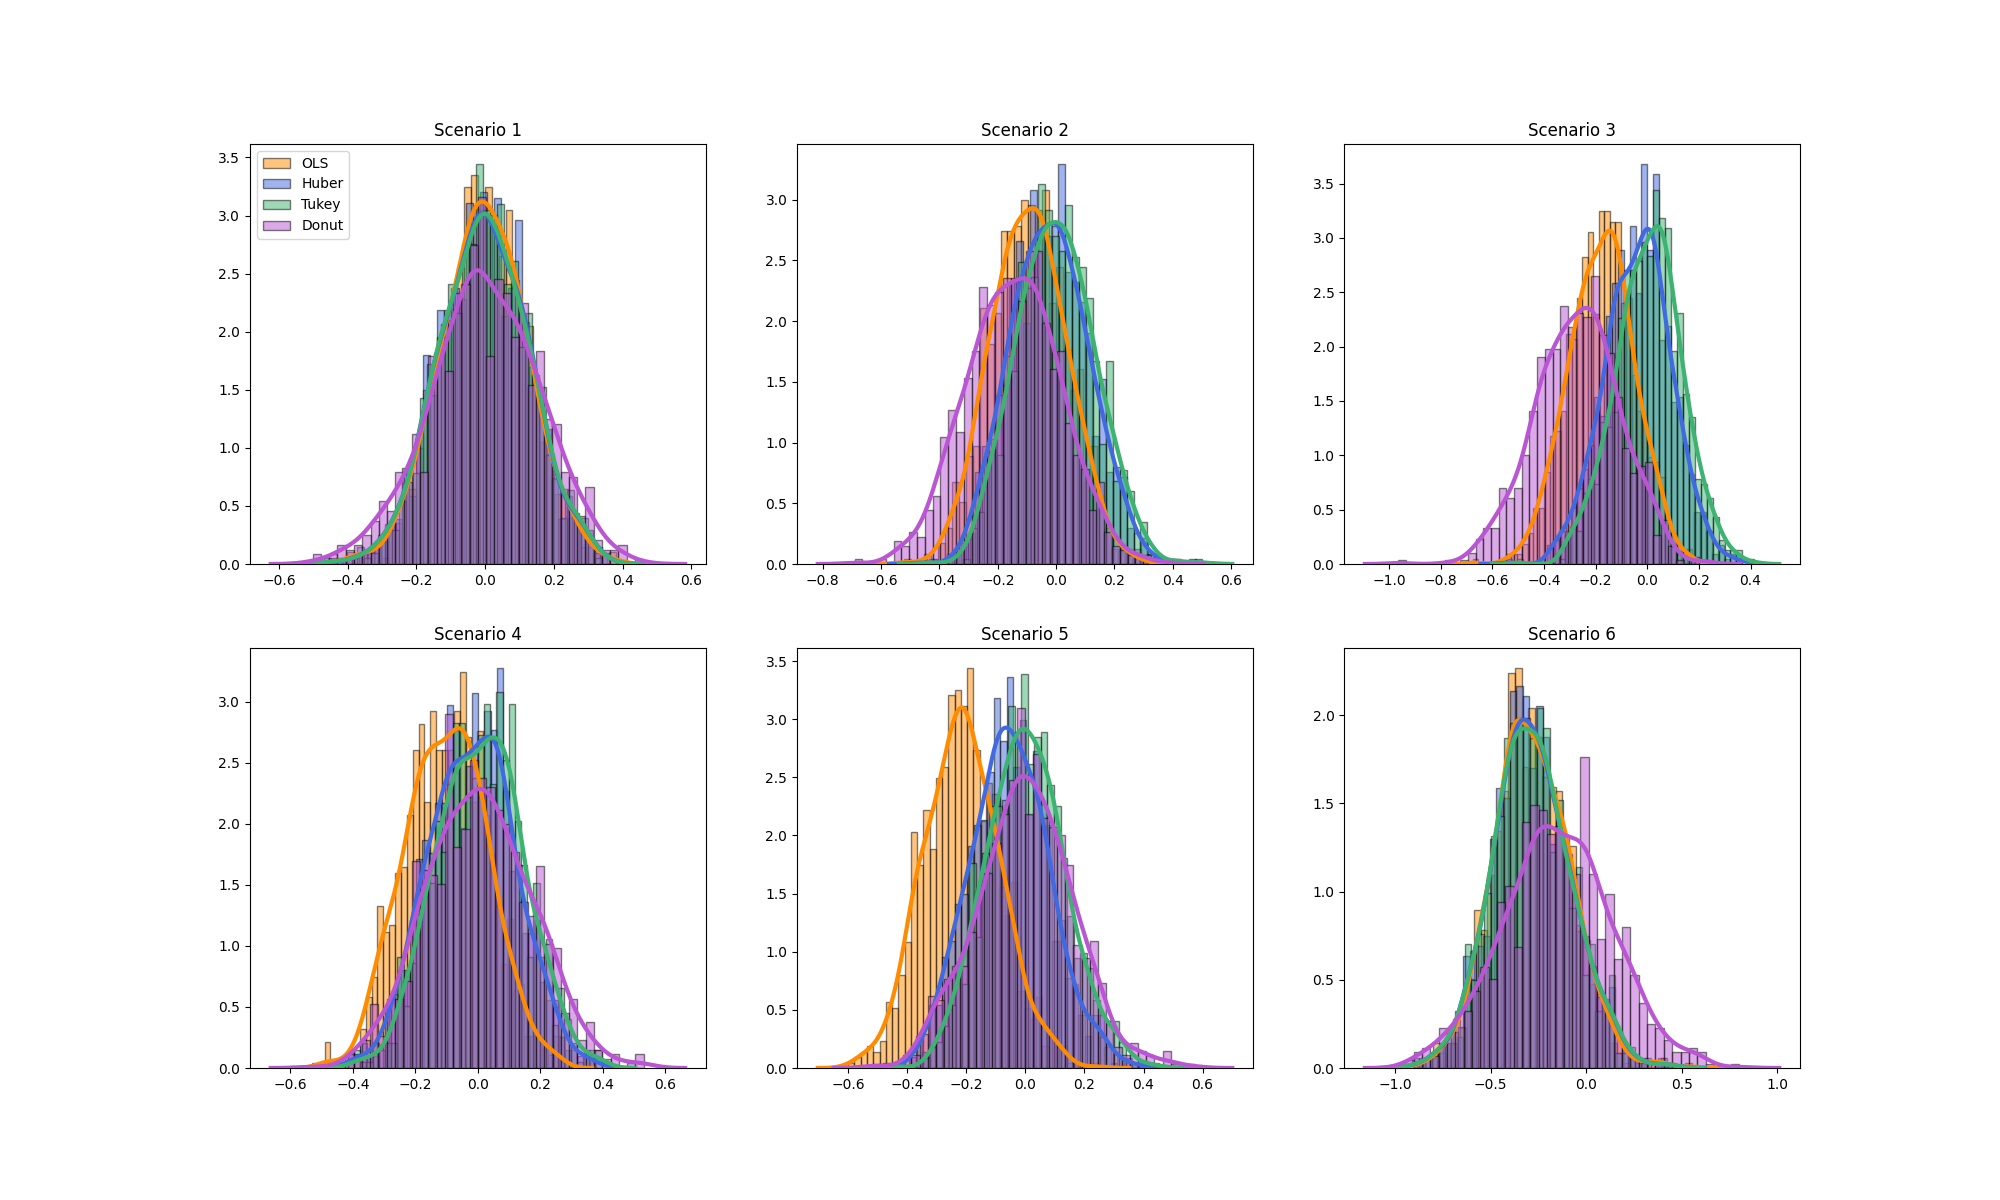
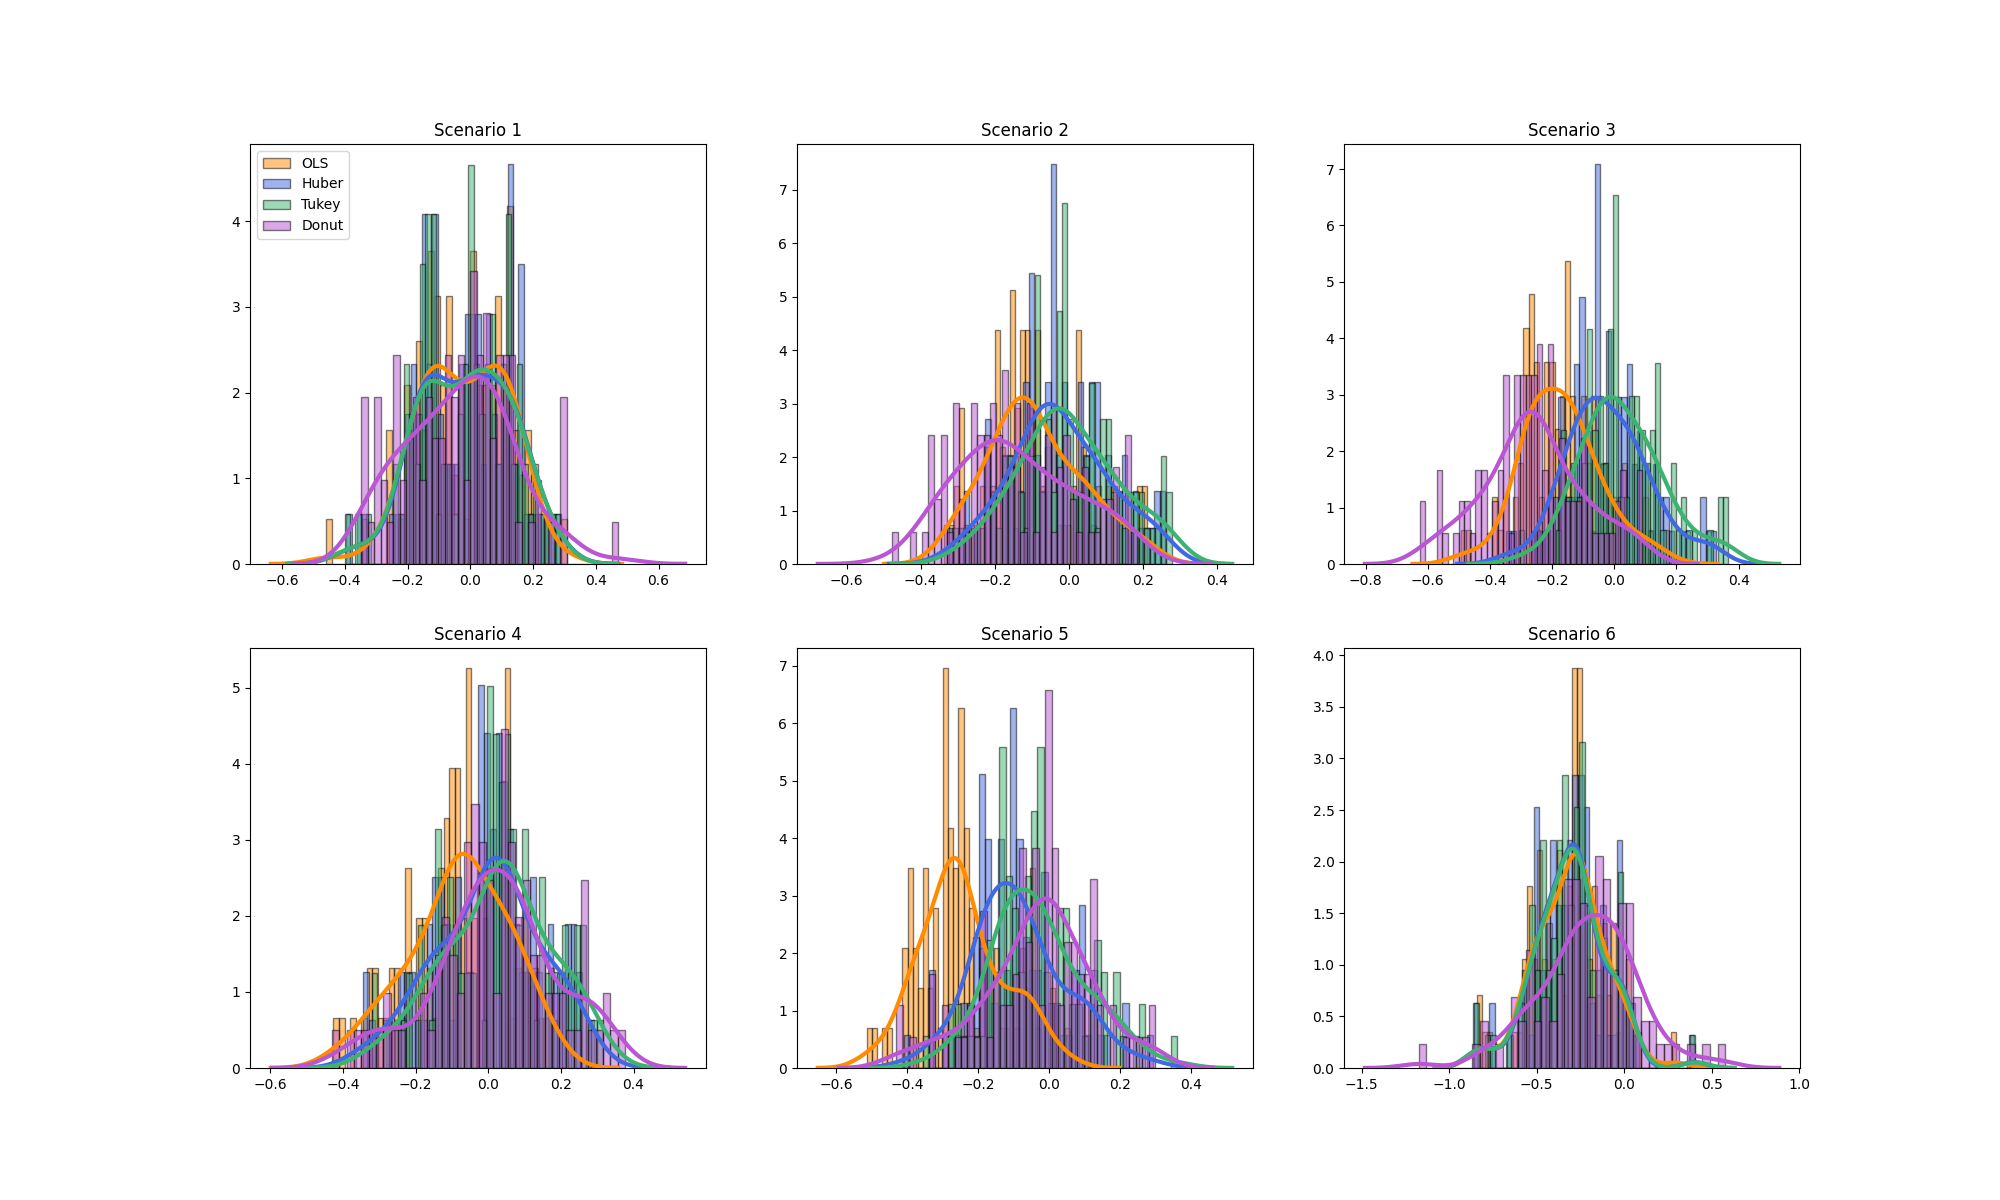
dev scenarios Scatter plot ccomparison

diff --git a/src/exports.py b/src/exports.py
@@ -30,32 +30,31 @@ def toLatexTable(results1, results2="", caption="", ref=""):
         )
 
 
-def scenariosHist(series, saveFig=False, figPath=""):
+def scenariosHist(scenarios, saveFig=False, figPath=""):
     """
-    This function plot the histogram of the serie with a pdf of a normal function with 
-    equal mean and st.dev.
+    This function plots the histograms of the estimated ATE from the different 
+    scenarios, with a kernel density estimation.    
 
     Parameters
     ----------
-    serie: arr[int]
-        The serie to plot the histogram of.
+    scenarios: arr[int]
+        The scenarios to plot the histograms of.
     saveFig: boolean
         Determines if the figure is saved or returned
     figPath: string
         The path to print the histogram to.
-    JB: boolean, default:False
-        Determine if the Jarque-Bera statistics are printed.
     """
     fig, axs = plt.subplots(2, 3, figsize=[20, 12])
     labels = ["OLS", "Huber", "Tukey", "Donut"]
     colors = ["darkorange", "royalblue", "mediumseagreen", "mediumorchid"]
     j, l = 0, 0
+    # For each scenario
     for i in range(6):
         c = 0
         # Plot the histogram
-        for column in series[i]:
+        for model in scenarios[i]:
             axs[j][l].hist(
-                series[i][column],
+                scenarios[i][model],
                 bins=40,
                 density=True,
                 label=labels[c],
@@ -66,7 +65,7 @@ def scenariosHist(series, saveFig=False, figPath=""):
             )
 
             # Plot kerndel density function
-            kde = sm.nonparametric.KDEUnivariate(series[i][column])
+            kde = sm.nonparametric.KDEUnivariate(scenarios[i][model])
             kde.fit()
             axs[j][l].plot(kde.support, kde.density, lw=3, zorder=10, color=colors[c])
             c = c + 1
@@ -83,3 +82,56 @@ def scenariosHist(series, saveFig=False, figPath=""):
         fig.savefig(figPath)
     else:
         return fig
+
+
+def plotSamplesComparison(samples, cutoff=0, saveFig=False, figPath=""):
+    """
+    This method plots a figure with the regession lines of the different estimation methods
+
+    Parameters
+    ----------
+    sample : DataFrame
+        The sample to estimate the regression for.
+    cutoff : int
+        The value of the threshold in the running variable.
+    saveFig: boolean
+        Determines if the figure is saved or returned
+    figPath: string
+        The path to print the histogram to.
+    """
+    fig, axs = plt.subplots(2, 3, figsize=[20, 12])
+    labels = ["OLS", "Huber", "Tukey", "Donut"]
+    colors = ["darkorange", "royalblue", "mediumseagreen", "mediumorchid"]
+    cmap = matplotlib.colors.LinearSegmentedColormap.from_list("", ["grey", "red"])
+    j, l = 0, 0
+    # For each scenario
+    for i in range(6):
+        # Plot scatter observations
+        axs[j][l].scatter(samples[i].X, samples[i].Y, s=6, c=samples[i].Outlier, cmap=cmap)
+        axs[j][l].xlabel("$X_i$")
+        axs[j][l].ylabel("$Y_i$")
+
+        
+        x_below = np.linspace(min(samples[i].X), cutoff, 100)
+        x_above = np.linspace(cutoff, max(samples[i].X), 100)
+        # Plot regresion lines
+        for model in samples[i][1]:
+            c=0
+            plt.plot(
+                x_below,
+                params1_below.iloc[0] + params1_below.iloc[1] * x_below,
+                color=colors[c],
+                linewidth=0.7,
+            )
+            plt.plot(
+                x_above,
+                params1_above.iloc[0] + params1_above.iloc[1] * x_above,
+                color="b",
+                linewidth=0.7,
+                label=labels[c] + " (ate: " + str(round(tau1, 2)) + ")",
+            )
+        
+
+
+        plt.legend()
+

diff --git a/src/rrdd.py b/src/rrdd.py
@@ -1,7 +1,4 @@
-import matplotlib
-import matplotlib.pyplot as plt
 import numpy as np
-import pandas as pd
 import statsmodels.api as sm
 
 
@@ -109,93 +106,6 @@ def splitFitRD(name, sample, cutoff=0):
     params_above = fit(name, sample_above, intercept=True).params
     tau = params_above.iloc[0] - params_below.iloc[0]
     return tau
-
-
-def plotComparison(sample, name1, name2="", name3="", cutoff=0):
-    """
-    This method plots a figure with the regession lines of the different estimation methods
-
-    Parameters
-    ----------
-    sample : DataFrame
-        The sample to estimate the regression for.
-    name1 : string
-        The name of the estimation method to use.
-        Opiton values : Robust Huber, Robust Tuckey, OLS, Donut.
-    name2 : string ,Default value : ""
-        The name of the estimation method to use.
-        Opiton values : Robust Huber, Robust Tuckey, OLS, Donut.
-    name3 : string ,Default value : ""
-        The name of the estimation method to use.
-        Opiton values : Robust Huber, Robust Tuckey, OLS, Donut.
-    cutoff : int
-        The value of the threshold in the running variable.
-    """
-    # Fit regressions and estimate ATE's
-    params1_below, params1_above = splitFit(name1, sample, cutoff, True)
-    tau1 = params1_above.iloc[0] - params1_below.iloc[0]
-    if name2 != "":
-        params2_below, params2_above = splitFit(name2, sample, cutoff, True)
-        tau2 = params2_above.iloc[0] - params2_below.iloc[0]
-
-    if name3 != "":
-        params3_below, params3_above = splitFit(name3, sample, cutoff, True)
-        tau3 = params3_above.iloc[0] - params3_below.iloc[0]
-
-    # Plot scatter observations
-    cmap = matplotlib.colors.LinearSegmentedColormap.from_list("", ["grey", "red"])
-    plt.figure(figsize=(19, 7))
-    plt.scatter(sample.X, sample.Y, s=6, c=sample.Outlier, cmap=cmap)
-    plt.scatter(sample.X, sample.Y, s=6, c=sample.Outlier, cmap=cmap)
-    plt.xlabel("$X_i$")
-    plt.ylabel("$Y_i$")
-
-    # Plot regresion lines
-    x_below = np.linspace(min(sample.X), cutoff, 100)
-    x_above = np.linspace(cutoff, max(sample.X), 100)
-    plt.plot(
-        x_below,
-        params1_below.iloc[0] + params1_below.iloc[1] * x_below,
-        color="b",
-        linewidth=0.7,
-    )
-    plt.plot(
-        x_above,
-        params1_above.iloc[0] + params1_above.iloc[1] * x_above,
-        color="b",
-        linewidth=0.7,
-        label=name1 + " (ate: " + str(round(tau1, 2)) + ")",
-    )
-    if name2 != "":
-        plt.plot(
-            x_below,
-            params2_below.iloc[0] + params2_below.iloc[1] * x_below,
-            color="g",
-            linewidth=0.7,
-        )
-        plt.plot(
-            x_above,
-            params2_above.iloc[0] + params2_above.iloc[1] * x_above,
-            color="g",
-            linewidth=0.7,
-            label=name2 + " (ate: " + str(round(tau2, 2)) + ")",
-        )
-    if name3 != "":
-        plt.plot(
-            x_below,
-            params3_below.iloc[0] + params3_below.iloc[1] * x_below,
-            color="purple",
-            linewidth=0.7,
-        )
-        plt.plot(
-            x_above,
-            params3_above.iloc[0] + params3_above.iloc[1] * x_above,
-            color="purple",
-            linewidth=0.7,
-            label=name3 + " (ate: " + str(round(tau3, 2)) + ")",
-        )
-
-    plt.legend()
 
 
 def jointFitRD(name, sample, cutoff=0):

diff --git a/src/simulation.py b/src/simulation.py
@@ -442,14 +442,14 @@ def simulations(r, name, n, tau, alpha, beta, cutoff=0, L=0):
 
     # Create labels for dataframe with results about skewness kurtosis and JB test
     labelsResults2 = [
-        "Kurt",
         "Skew",
+        "Kurt",
         "JB",
-        "Kurt",
         "Skew",
+        "Kurt",
         "JB",
-        "Kurt",
         "Skew",
+        "Kurt",
         "JB",
     ]
     labelsResults2a = pd.MultiIndex.from_arrays(
@@ -597,7 +597,7 @@ def simulations(r, name, n, tau, alpha, beta, cutoff=0, L=0):
 
     # Captions for latex tablex
     caption1 = (
-        "Bias, standard deviation and root mean squared error of the point estimates"
+        "Bias, standard deviation and root mean squared error of the point estimates "
         + "of the treatment effect"
     )
     caption2 = (
@@ -606,7 +606,7 @@ def simulations(r, name, n, tau, alpha, beta, cutoff=0, L=0):
     )
     caption3 = (
         "Type I error of t-test statistic of the simulated point estimates for $h_0:\\hat{\\tau}=\\tau$, "
-        + "based on normal and student's-t distribuitions. Correct coverage of the confidence intervals "
+        + "based on normal and student's-t distributions. Correct coverage of the confidence intervals "
         + "and lenght. For significance level of $\\alpha=0.1$"
     )
 

diff --git a/dev.py b/dev.py
@@ -33,7 +33,7 @@ import pandas as pd
 ##
 # exp.scenariosHist(p, True, 'images/testfig1.png')
 
-r = 1000
+r = 100
 n = 250
 
 sim.simulations(r, "Basic Linear", n, tau=2, alpha=-1, beta=1, cutoff=0)
